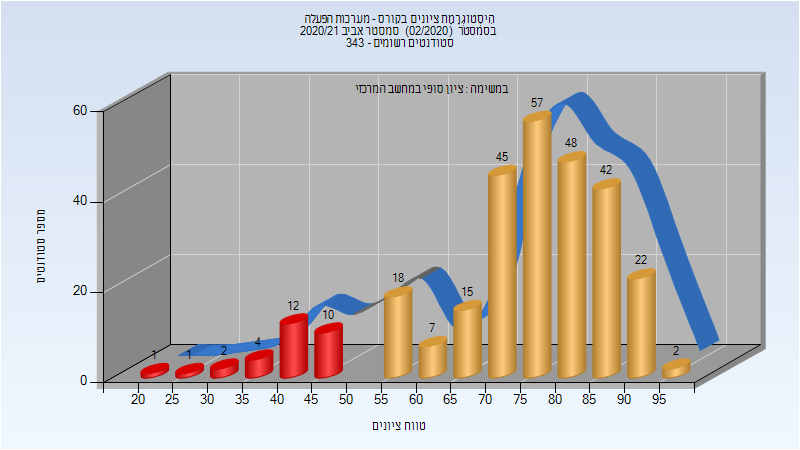
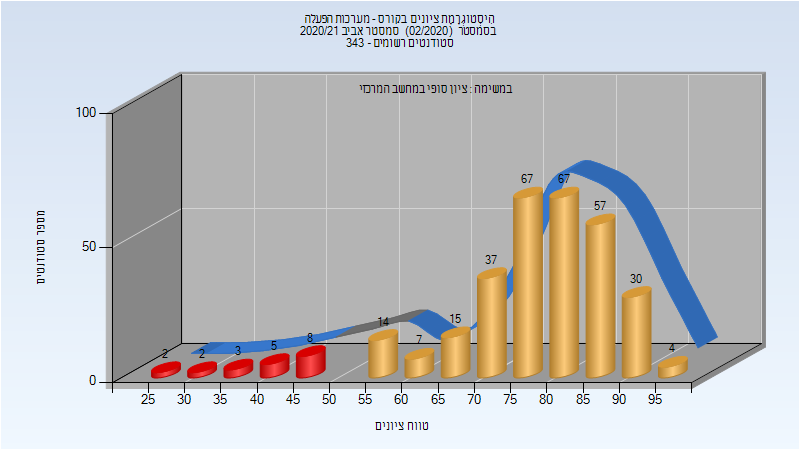
deploy: 7f9496696e605f1901f235a24fb21e92bd85d93a

diff --git a/234123/index.html b/234123/index.html
@@ -545,13 +545,13 @@
 </thead>
 <tbody>
 <tr>
-<td>286</td>
-<td>256/30</td>
-<td>90</td>
-<td>24</td>
-<td>97</td>
-<td>73.787</td>
-<td>78</td>
+<td>318</td>
+<td>298/20</td>
+<td>94</td>
+<td>25</td>
+<td>99</td>
+<td>76.855</td>
+<td>79</td>
 </tr>
 </tbody>
 </table>

diff --git a/234123/README.md b/234123/README.md
@@ -182,5 +182,5 @@
 
 | סטודנטים | עברו/נכשלו | אחוז עוברים | ציון מינימלי | ציון מקסימלי | ממוצע | חציון |
 | ---- | ---- | ---- | ---- | ---- | ---- | ---- |
-| 286 | 256/30 | 90 | 24 | 97 | 73.787 | 78 |
+| 318 | 298/20 | 94 | 25 | 99 | 76.855 | 79 |
 
